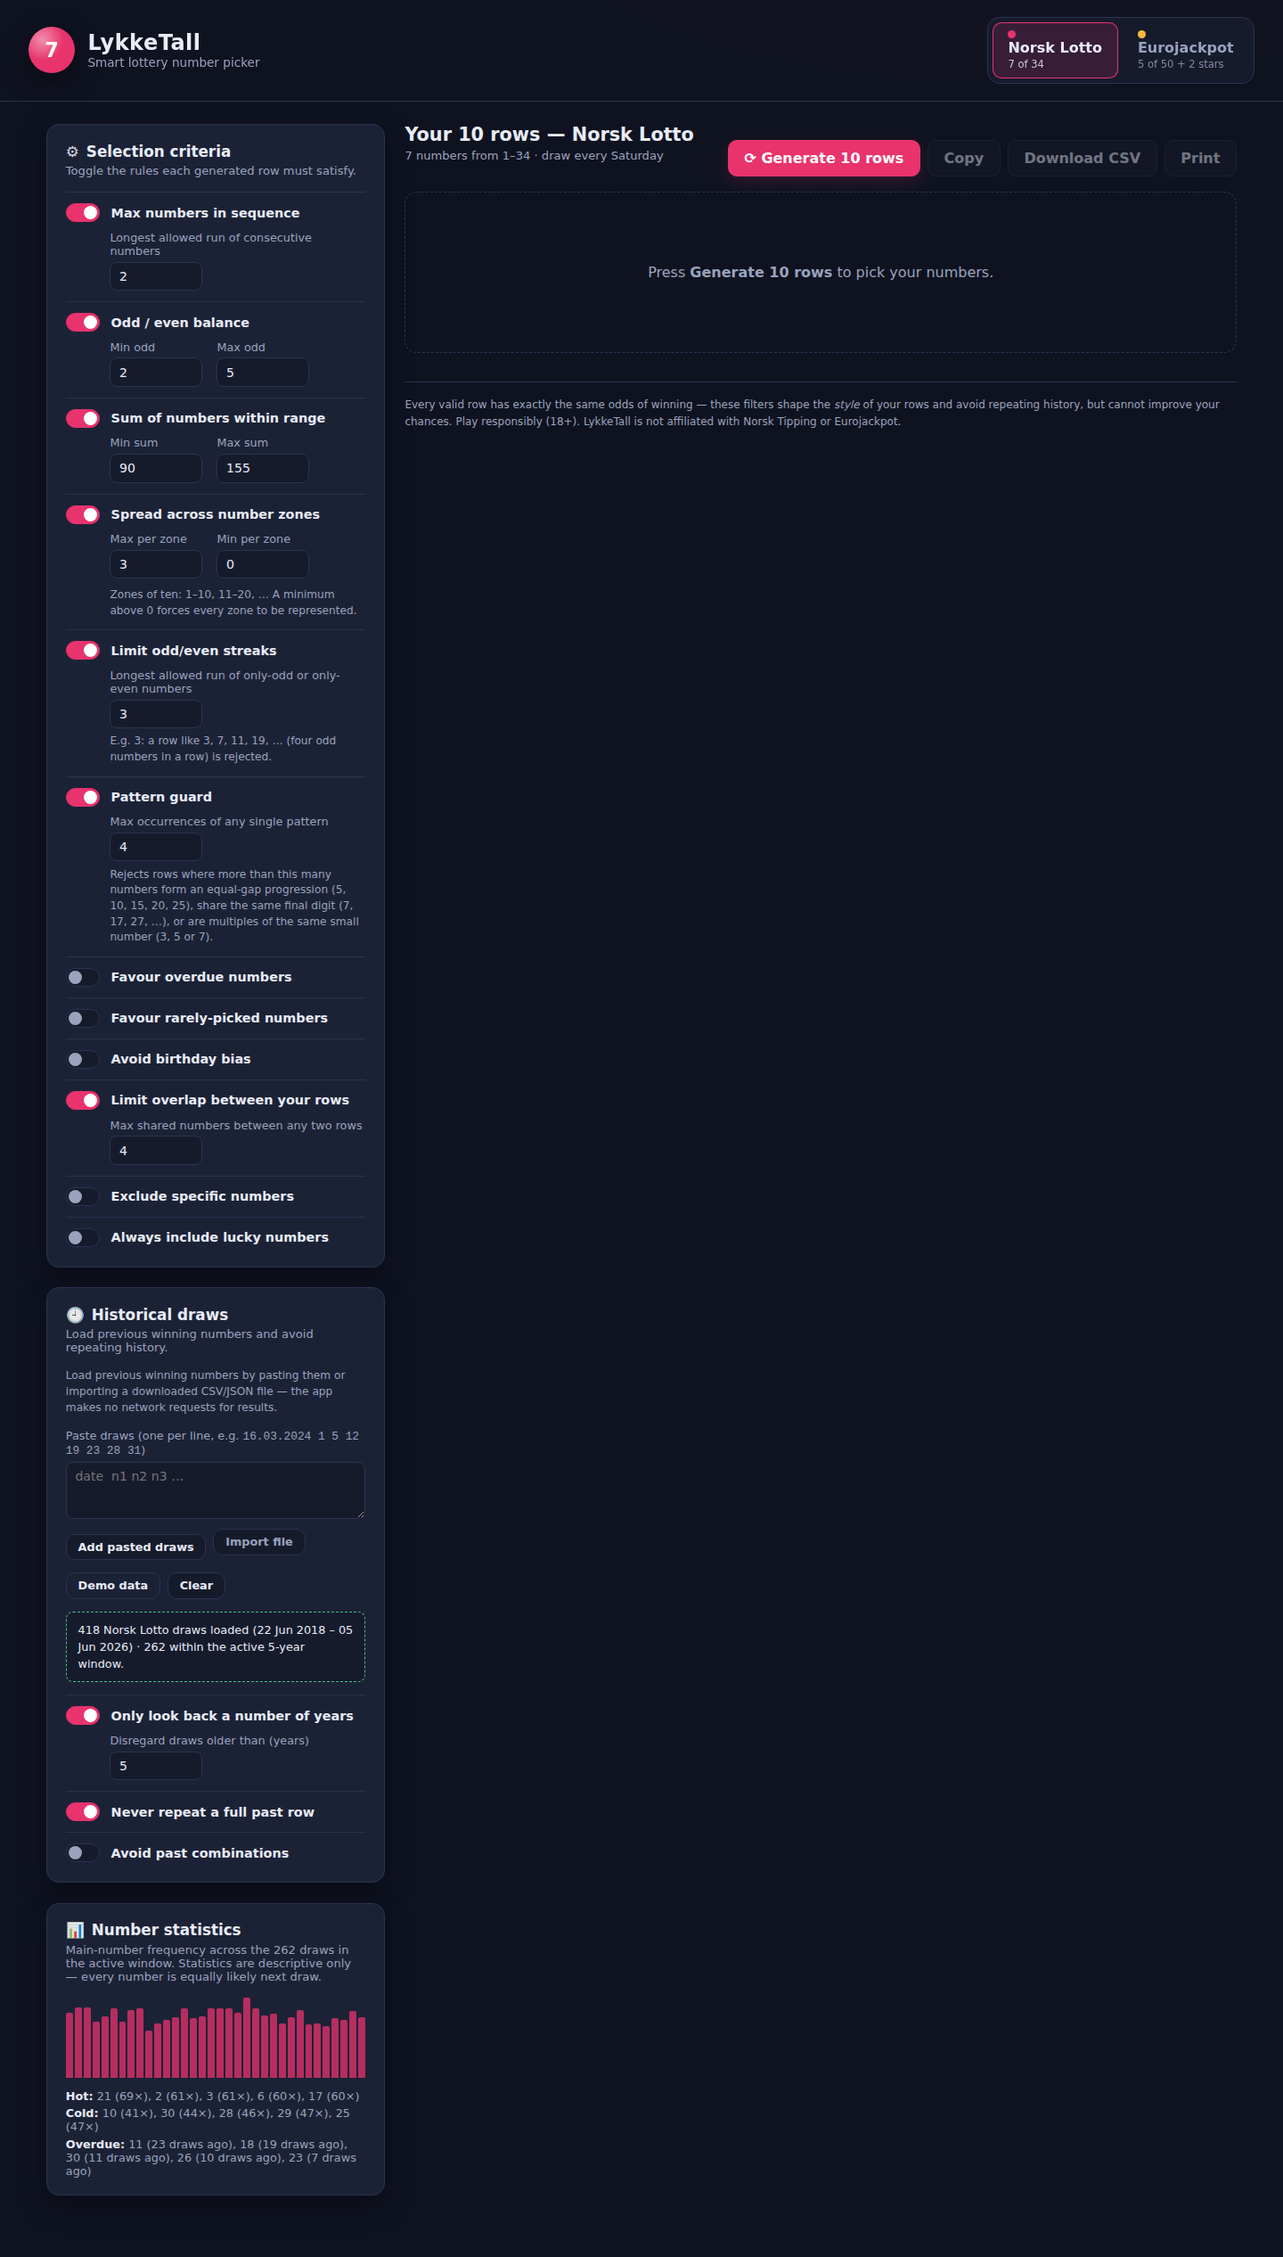
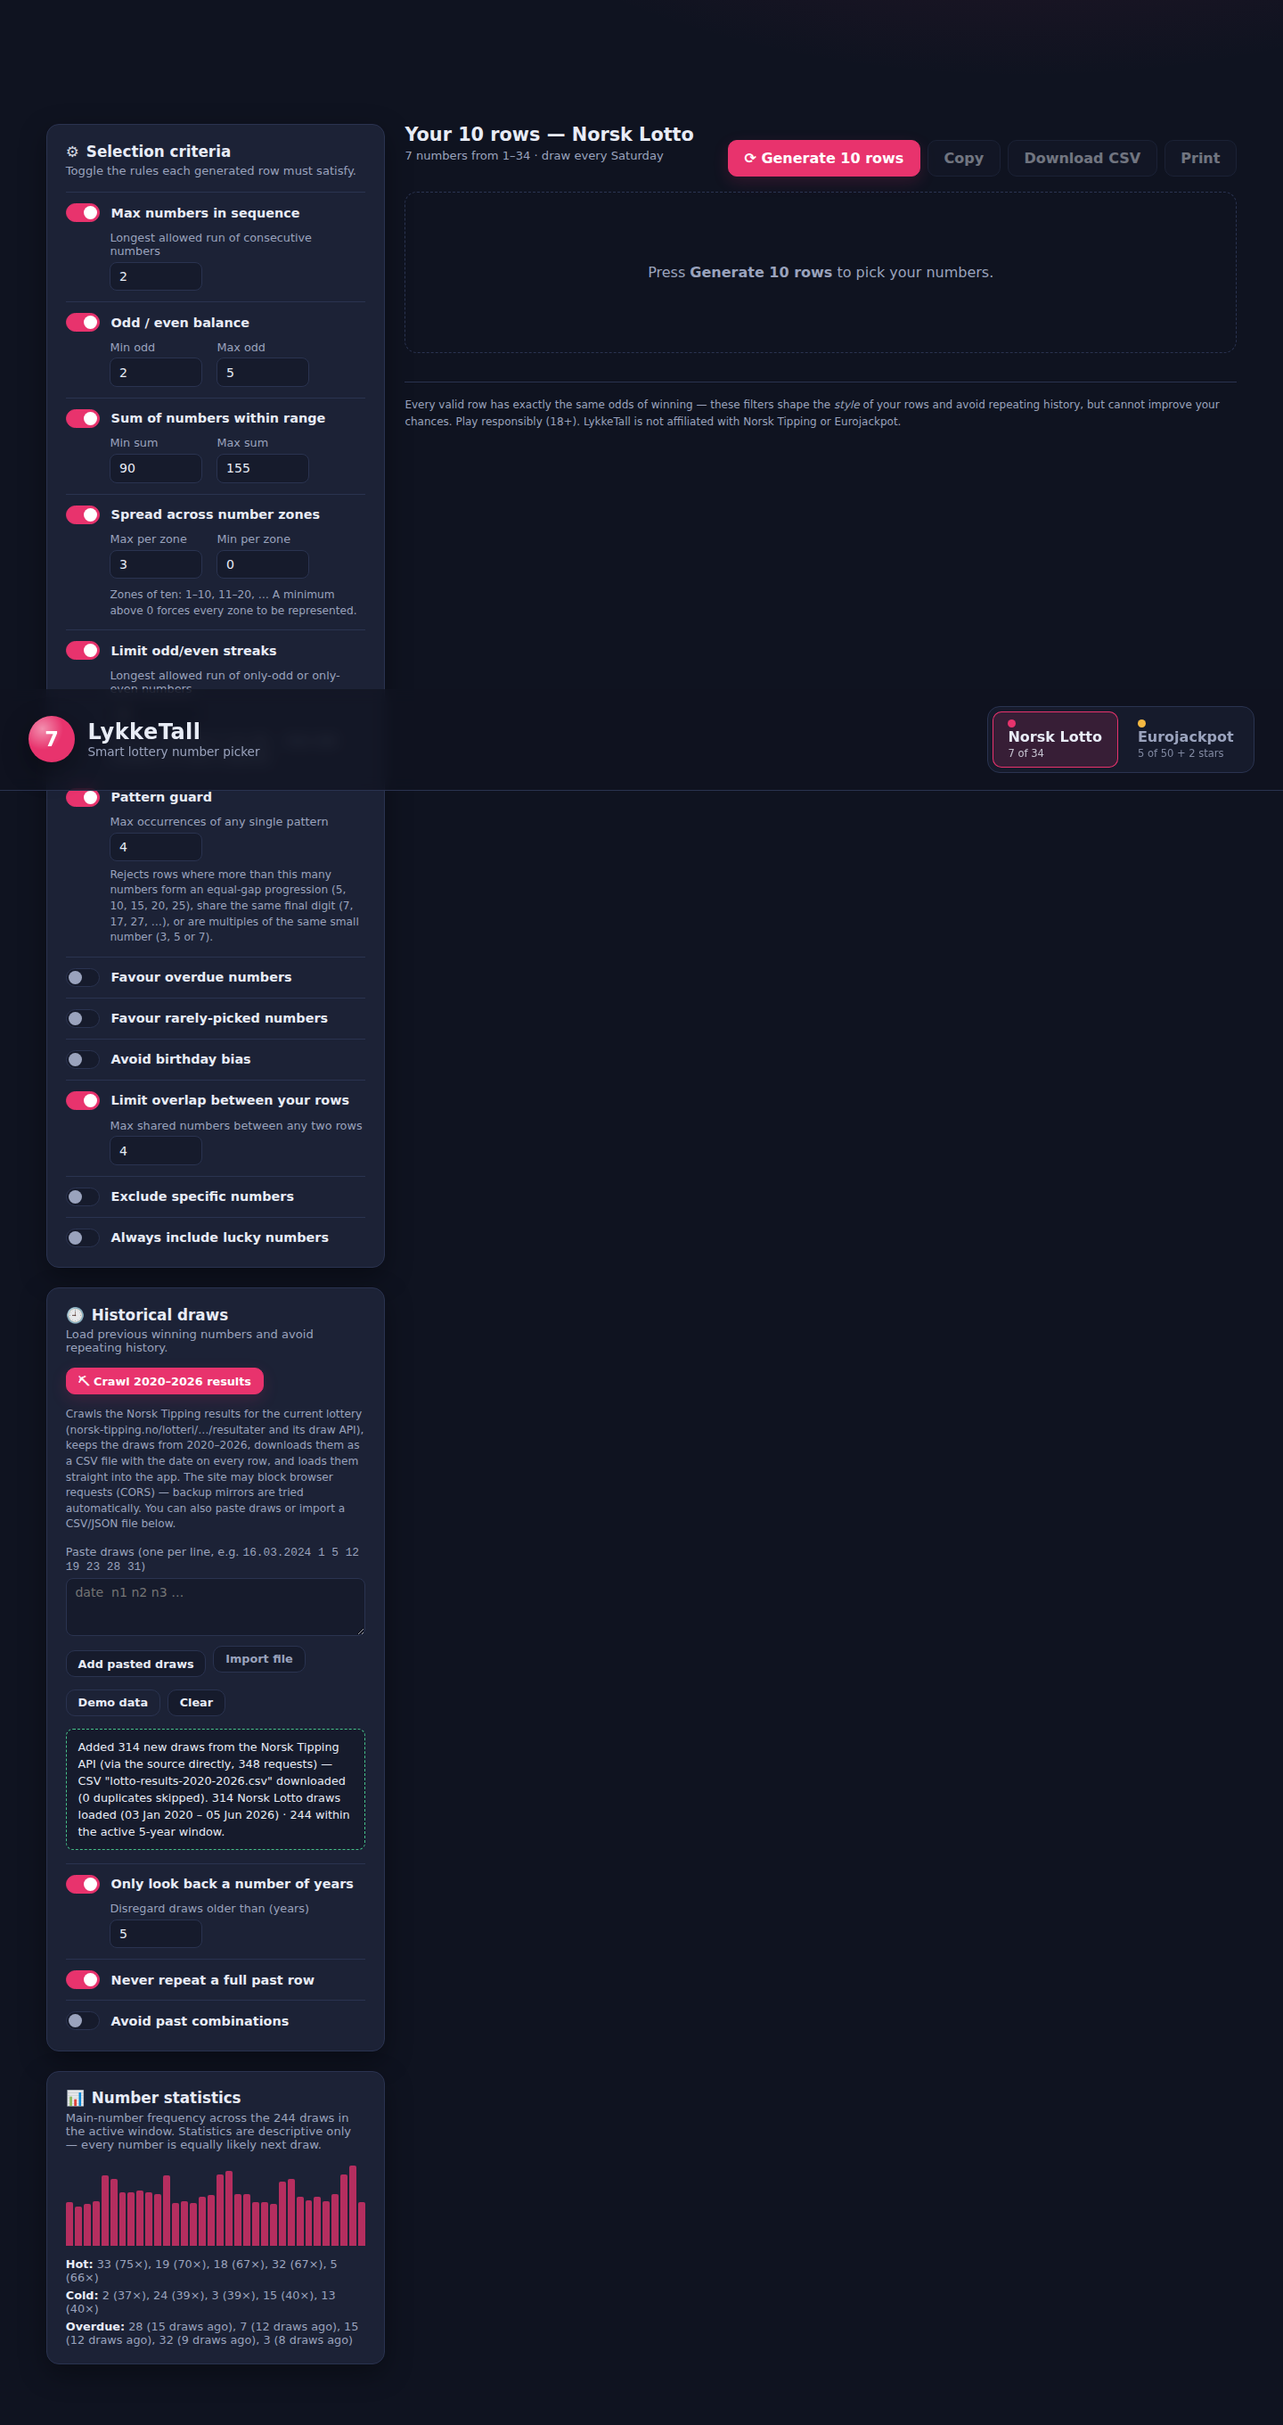
Add Crawl button: fetch 2020-2026 results, build CSV, load into app
New js/crawler.js crawls the Norsk Tipping results for the current
lottery: primary strategy walks the draw API backwards from the
latest draw with limited concurrency until the draws predate 2020
(bounded by a request budget); fallback parses the result pages at
norsk-tipping.no/lotteri/{lotto,eurojackpot}/resultater. Each request
tries the site directly and falls back to public CORS mirrors.

The crawled draws are filtered to 2020-2026, written to a CSV with an
ISO date on every row (downloaded as {game}-results-2020-2026.csv),
and loaded into the app history. The CSV round-trips through the file
importer; header tokens like n1/star2 are no longer misparsed as ball
numbers.

https://claude.ai/code/session_01Ghj8mn2AdfwdEU1CtZ5z98

diff --git a/js/crawler.js b/js/crawler.js
@@ -1,0 +1,147 @@
+/* Crawler for historic results (2020-2026). Browser-only: uses fetch and
+   DOMParser. Strategy A walks the unofficial Norsk Tipping JSON API draw by
+   draw; strategy B parses the result pages. Every request tries the source
+   directly, then public read-through mirrors (the pages block cross-origin
+   browser requests). */
+"use strict";
+
+const CRAWL_FROM = new Date(2020, 0, 1);
+const CRAWL_TO = new Date(2026, 11, 31);
+const CRAWL_TIMEOUT_MS = 12000;
+const CRAWL_MAX_REQUESTS = 700;
+const CRAWL_CONCURRENCY = 5;
+/* Stop walking once this many draws in a row are older than 2020. */
+const CRAWL_OLD_STREAK_STOP = 8;
+
+const CRAWL_ROUTES = [
+  { name: "the source directly", make: (u) => u },
+  { name: "backup mirror allorigins.win", make: (u) => `https://api.allorigins.win/raw?url=${encodeURIComponent(u)}` },
+  { name: "backup mirror corsproxy.io", make: (u) => `https://corsproxy.io/?url=${encodeURIComponent(u)}` },
+  { name: "backup mirror codetabs.com", make: (u) => `https://api.codetabs.com/v1/proxy?quest=${encodeURIComponent(u)}` }
+];
+
+function crawlFetchWithTimeout(url) {
+  const ctrl = new AbortController();
+  const timer = setTimeout(() => ctrl.abort(), CRAWL_TIMEOUT_MS);
+  return fetch(url, { mode: "cors", signal: ctrl.signal }).finally(() => clearTimeout(timer));
+}
+
+/** Fetch trying direct first, then mirrors; `preferredIdx` reorders so a
+    route that already worked for this host is tried first. */
+async function crawlFetch(url, preferredIdx) {
+  const order = CRAWL_ROUTES.map((_, i) => i);
+  if (preferredIdx > 0) {
+    order.splice(order.indexOf(preferredIdx), 1);
+    order.unshift(preferredIdx);
+  }
+  const failures = [];
+  for (const i of order) {
+    try {
+      const res = await crawlFetchWithTimeout(CRAWL_ROUTES[i].make(url));
+      if (!res.ok) throw new Error(`HTTP ${res.status}`);
+      const text = await res.text();
+      if (!text.trim()) throw new Error("empty response");
+      return { text, routeIdx: i, via: CRAWL_ROUTES[i].name };
+    } catch (e) {
+      failures.push(`${CRAWL_ROUTES[i].name}: ${e.name === "AbortError" ? "timed out" : e.message}`);
+    }
+  }
+  throw new Error(failures.join(" · "));
+}
+
+/** Turn fetched HTML into line-oriented text so the draw parser can work on it. */
+function crawlStripHtml(text) {
+  if (!/<[a-z!/]/i.test(text)) return text;
+  const doc = new DOMParser().parseFromString(text, "text/html");
+  for (const el of doc.querySelectorAll("script, style")) el.remove();
+  for (const el of doc.querySelectorAll("tr, li, p, div, h1, h2, h3")) el.append("\n");
+  return doc.body ? doc.body.textContent : text;
+}
+
+function inCrawlRange(draw) {
+  return draw.date !== null && draw.date >= CRAWL_FROM && draw.date <= CRAWL_TO;
+}
+
+function crawlExtractDrawId(text) {
+  const m = text.match(/"drawI[dD]"\s*:\s*"?(\d+)/);
+  return m ? parseInt(m[1], 10) : null;
+}
+
+/** Strategy A: walk the unofficial JSON API backwards from the latest draw
+    until the draws predate 2020 (or the request budget runs out). */
+async function crawlViaApi(cfg, onProgress) {
+  const base = cfg.crawl.api;
+  const latest = await crawlFetch(base, -1);
+  const latestId = crawlExtractDrawId(latest.text);
+  const latestDraws = parseDraws(latest.text, cfg);
+  if (!latestId || !latestDraws.length) throw new Error("the API response had no recognisable draw");
+
+  const collected = latestDraws.slice();
+  let requests = 1;
+  let nextId = latestId - 1;
+  let oldStreak = 0;
+  let stopped = false;
+
+  const workers = Array.from({ length: CRAWL_CONCURRENCY }, async () => {
+    while (!stopped && nextId > 0 && requests < CRAWL_MAX_REQUESTS && oldStreak < CRAWL_OLD_STREAK_STOP) {
+      const id = nextId--;
+      requests++;
+      try {
+        const { text } = await crawlFetch(`${base}?drawID=${id}`, latest.routeIdx);
+        const draws = parseDraws(text, cfg);
+        if (draws.length) {
+          collected.push(...draws);
+          if (draws.every((d) => d.date !== null && d.date < CRAWL_FROM)) oldStreak++;
+          else oldStreak = 0;
+        }
+      } catch (e) {
+        /* skip this draw; the streak/budget limits bound the walk */
+      }
+      if (requests % 5 === 0) onProgress(requests);
+    }
+    if (oldStreak >= CRAWL_OLD_STREAK_STOP) stopped = true;
+  });
+  await Promise.all(workers);
+
+  const draws = dedupeDraws(collected).filter(inCrawlRange);
+  if (!draws.length) throw new Error("the API yielded no draws within 2020-2026");
+  return { draws, source: `the Norsk Tipping API (via ${latest.via}, ${requests} requests)` };
+}
+
+/** Strategy B: fetch the result pages and parse whatever draws they contain. */
+async function crawlViaPages(cfg, onProgress) {
+  const collected = [];
+  let lastError = null;
+  for (const url of cfg.crawl.pages) {
+    try {
+      onProgress(null, `Fetching ${url}…`);
+      const { text } = await crawlFetch(url, -1);
+      collected.push(...parseDraws(crawlStripHtml(text), cfg));
+    } catch (e) {
+      lastError = e;
+    }
+  }
+  const draws = dedupeDraws(collected).filter(inCrawlRange);
+  if (!draws.length) {
+    throw lastError || new Error("the result pages contained no parsable dated draws within 2020-2026");
+  }
+  return { draws, source: "the result pages" };
+}
+
+/**
+ * Crawl 2020-2026 results for a lottery. onProgress(requestCount, message?)
+ * is called periodically. Returns { draws, source }.
+ */
+async function crawlLottery(cfg, onProgress) {
+  let apiError;
+  try {
+    return await crawlViaApi(cfg, onProgress);
+  } catch (e) {
+    apiError = e;
+  }
+  try {
+    return await crawlViaPages(cfg, onProgress);
+  } catch (e) {
+    throw new Error(`API: ${apiError.message} — pages: ${e.message}`);
+  }
+}

diff --git a/test/run-tests.js b/test/run-tests.js
@@ -29,13 +29,13 @@ function assert(cond, name) {
 const {
   LOTTERIES, sampleDistinct, combinationKeys, longestConsecutiveRun, sumOf, countOdd,
   overlapCount, parseDrawsText, parseDraws, filterDrawsByYears, buildHistoryIndex,
-  dedupeDraws, generateTickets, longestParityRun, longestArithmeticProgression,
+  dedupeDraws, generateTickets, buildResultsCsv, longestParityRun, longestArithmeticProgression,
   maxSameLastDigit, maxSharedDivisor, zoneOfNumber, weightedSampleDistinct,
   drawsSinceLastSeen
 } = vm.runInContext(
   `({ LOTTERIES, sampleDistinct, combinationKeys, longestConsecutiveRun, sumOf, countOdd,
       overlapCount, parseDrawsText, parseDraws, filterDrawsByYears, buildHistoryIndex,
-      dedupeDraws, generateTickets, longestParityRun, longestArithmeticProgression,
+      dedupeDraws, generateTickets, buildResultsCsv, longestParityRun, longestArithmeticProgression,
       maxSameLastDigit, maxSharedDivisor, zoneOfNumber, weightedSampleDistinct,
       drawsSinceLastSeen })`,
   context
@@ -145,6 +145,25 @@ assert(jsonDraws[1].date.getFullYear() === 2023, "JSON drawDate parsed");
 }
 
 assert(dedupeDraws(draws.concat(draws)).length === 3, "dedupeDraws removes duplicates");
+
+/* CSV builder round-trips through the importer */
+{
+  const csv = buildResultsCsv(draws, lotto);
+  const lines = csv.split("\n");
+  assert(lines[0] === "date,n1,n2,n3,n4,n5,n6,n7", "CSV: lotto header");
+  assert(lines.length === 4, "CSV: one line per draw plus header");
+  assert(lines[1].startsWith("2024-03-16,"), "CSV: newest first with ISO date");
+  assert(parseDraws(csv, lotto).length === 3, "CSV: importer reads it back");
+
+  const euroCsv = buildResultsCsv(
+    [{ date: new Date(2024, 5, 14), mains: [7, 19, 28, 33, 45], stars: [3, 9] }],
+    euro
+  );
+  assert(euroCsv.split("\n")[0] === "date,n1,n2,n3,n4,n5,star1,star2", "CSV: euro header");
+  assert(euroCsv.split("\n")[1] === "2024-06-14,7,19,28,33,45,3,9", "CSV: euro row with stars and date");
+  const back = parseDraws(euroCsv, euro);
+  assert(back.length === 1 && back[0].stars.join(",") === "3,9", "CSV: euro round-trip");
+}
 
 const recent = filterDrawsByYears(draws, 3, new Date(2026, 5, 12));
 assert(recent.length === 2, "filterDrawsByYears keeps only the window");

diff --git a/js/app.js b/js/app.js
@@ -223,6 +223,41 @@
     setHistoryStatus(`${prefix ? prefix + " " : ""}${all.length} ${LOTTERIES[state.lotteryId].name} draws loaded${rangeText}${windowText}.`, true);
   }
 
+  /* ---------- crawl (2020-2026 results + CSV) ---------- */
+
+  function downloadBlob(content, type, filename) {
+    const blob = new Blob([content], { type });
+    const a = document.createElement("a");
+    a.href = URL.createObjectURL(blob);
+    a.download = filename;
+    a.click();
+    URL.revokeObjectURL(a.href);
+  }
+
+  async function crawlHistory() {
+    const cfg = LOTTERIES[state.lotteryId];
+    const btn = $("#history-crawl");
+    btn.disabled = true;
+    const oldLabel = btn.textContent;
+    btn.textContent = "Crawling…";
+    try {
+      setHistoryStatus(`Crawling ${cfg.name} results 2020–2026…`, false);
+      const { draws, source } = await crawlLottery(cfg, (requests, message) => {
+        setHistoryStatus(message || `Crawling ${cfg.name} results 2020–2026… ${requests} requests so far`, false);
+      });
+      downloadBlob(buildResultsCsv(draws, cfg), "text/csv", cfg.crawl.csvName);
+      addDraws(draws, `${source} — CSV "${cfg.crawl.csvName}" downloaded`);
+    } catch (e) {
+      setHistoryStatus(
+        `Crawling failed (${e.message}). Paste the draws in the box below, or import a CSV/JSON file instead.`,
+        false
+      );
+    } finally {
+      btn.disabled = false;
+      btn.textContent = oldLabel;
+    }
+  }
+
   function loadDemoData() {
     // Synthetic draws, clearly for trying out the exclusion filters.
     const cfg = LOTTERIES[state.lotteryId];
@@ -494,6 +529,7 @@
       addDraws(parseDraws(text, LOTTERIES[state.lotteryId]), `"${file.name}"`);
       e.target.value = "";
     });
+    $("#history-crawl").addEventListener("click", crawlHistory);
     $("#history-demo").addEventListener("click", loadDemoData);
     $("#history-clear").addEventListener("click", () => {
       state.history[state.lotteryId] = [];

diff --git a/js/history.js b/js/history.js
@@ -50,7 +50,8 @@ function parseDrawLine(line, cfg) {
   if (found) rest = line.replace(found.matched, " ");
   // Drop 4-digit years and anything attached to currency-ish tokens.
   rest = rest.replace(/\b\d{4,}\b/g, " ");
-  const tokens = rest.match(/\d{1,2}/g) || [];
+  // Digits glued to letters (header tokens like "n1", "star2") are not balls.
+  const tokens = rest.match(/(?<![A-Za-z0-9])\d{1,2}(?![A-Za-z0-9])/g) || [];
   const mains = [];
   const stars = [];
   for (const t of tokens) {
@@ -242,6 +243,27 @@ function drawsSinceLastSeen(draws, cfg) {
     for (const n of d.mains) if (last[n] === -1) last[n] = i;
   });
   return last.map((v) => (v === -1 ? sorted.length : v));
+}
+
+/** Build a CSV of draws (newest first): date,n1..nK[,star1..]. The same
+    format the file importer reads back. */
+function buildResultsCsv(draws, cfg) {
+  const header = ["date"];
+  for (let i = 1; i <= cfg.mainPick; i++) header.push("n" + i);
+  for (let i = 1; i <= cfg.starPick; i++) header.push("star" + i);
+  const sorted = draws
+    .slice()
+    .sort((a, b) => (b.date ? b.date.getTime() : 0) - (a.date ? a.date.getTime() : 0));
+  const lines = [header.join(",")];
+  for (const d of sorted) {
+    const iso = d.date
+      ? `${d.date.getFullYear()}-${String(d.date.getMonth() + 1).padStart(2, "0")}-${String(d.date.getDate()).padStart(2, "0")}`
+      : "";
+    const stars = d.stars.slice(0, cfg.starPick);
+    while (stars.length < cfg.starPick) stars.push("");
+    lines.push([iso, ...d.mains, ...stars].join(","));
+  }
+  return lines.join("\n");
 }
 
 function drawsDateRange(draws) {

diff --git a/index.html b/index.html
@@ -211,7 +211,10 @@
         <p class="panel-hint">Load previous winning numbers and avoid repeating history.</p>
 
         <div class="history-load">
-          <p class="mini-hint" style="margin: 0 0 0.9rem;">Load previous winning numbers by pasting them or importing a downloaded CSV/JSON file — the app makes no network requests for results.</p>
+          <div class="btn-row" style="margin-bottom: 0.8rem;">
+            <button id="history-crawl" class="btn small primary">⛏ Crawl 2020–2026 results</button>
+          </div>
+          <p class="mini-hint" style="margin: 0 0 0.9rem;">Crawls the Norsk Tipping results for the current lottery (norsk-tipping.no/lotteri/…/resultater and its draw API), keeps the draws from 2020–2026, downloads them as a CSV file with the date on every row, and loads them straight into the app. The site may block browser requests (CORS) — backup mirrors are tried automatically. You can also paste draws or import a CSV/JSON file below.</p>
 
           <label>Paste draws (one per line, e.g. <code>16.03.2024 1 5 12 19 23 28 31</code>)
             <textarea id="history-paste" rows="3" placeholder="date  n1 n2 n3 …"></textarea>
@@ -313,6 +316,7 @@
   <script src="js/lotteries.js"></script>
   <script src="js/util.js"></script>
   <script src="js/history.js"></script>
+  <script src="js/crawler.js"></script>
   <script src="js/generator.js"></script>
   <script src="js/app.js"></script>
 </body>

diff --git a/js/lotteries.js b/js/lotteries.js
@@ -16,7 +16,15 @@ const LOTTERIES = {
     // Typical sum band (~middle 80% of random 7-of-34 rows)
     defaultSumMin: 90,
     defaultSumMax: 155,
-    zoneSize: 10
+    zoneSize: 10,
+    crawl: {
+      api: "https://www.norsk-tipping.no/api-lotto/getResultInfo.json",
+      pages: [
+        "https://www.norsk-tipping.no/lotteri/lotto/resultater",
+        "https://www.norsk-tipping.no/lotterier/lotto/resultater"
+      ],
+      csvName: "lotto-results-2020-2026.csv"
+    }
   },
   eurojackpot: {
     id: "eurojackpot",
@@ -31,7 +39,15 @@ const LOTTERIES = {
     accent: "euro",
     defaultSumMin: 95,
     defaultSumMax: 160,
-    zoneSize: 10
+    zoneSize: 10,
+    crawl: {
+      api: "https://www.norsk-tipping.no/api-eurojackpot/getResultInfo.json",
+      pages: [
+        "https://www.norsk-tipping.no/lotteri/eurojackpot/resultater",
+        "https://www.norsk-tipping.no/lotterier/eurojackpot/resultater"
+      ],
+      csvName: "eurojackpot-results-2020-2026.csv"
+    }
   }
 };
 

diff --git a/README.md b/README.md
@@ -22,10 +22,14 @@ header. Each system keeps its own rules, sum-range defaults, theme colour and
 loaded history.
 
 ### Historical draws
-Load previously drawn winning numbers and stop the generator from repeating history.
-The app makes no network requests for results — history is loaded entirely from
-data you provide:
+Load previously drawn winning numbers and stop the generator from repeating history:
 
+- **Crawl 2020–2026 results** — crawls the Norsk Tipping results for the current
+  lottery (`norsk-tipping.no/lotteri/{lotto,eurojackpot}/resultater` and the draw
+  API behind them, walking backwards draw by draw until it passes 2020), keeps the
+  draws from 2020–2026, downloads them as a CSV file (`date,n1,…` — one dated row
+  per draw) and loads them straight into the app. Requests try the site directly
+  and fall back to public read-through mirrors when blocked by CORS.
 - **Paste draws** — one draw per line, e.g. `16.03.2024 1 5 12 19 23 28 31`
   (Eurojackpot: `14.06.2024 7 19 28 33 45 + 3 9`). Norwegian (`dd.mm.yyyy`) and ISO
   dates are both understood.
